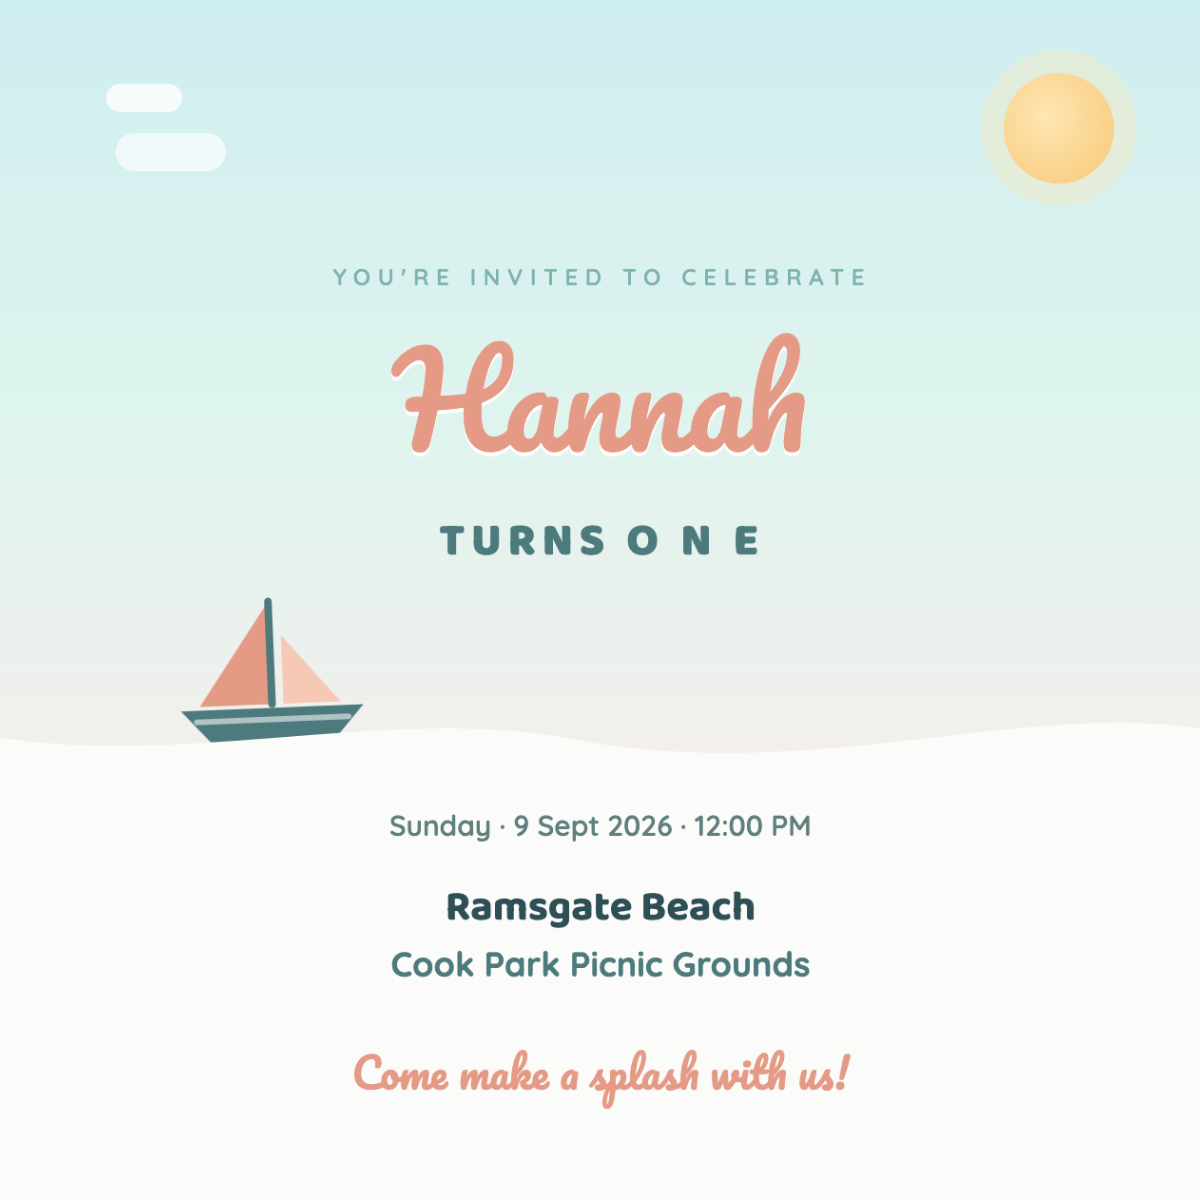
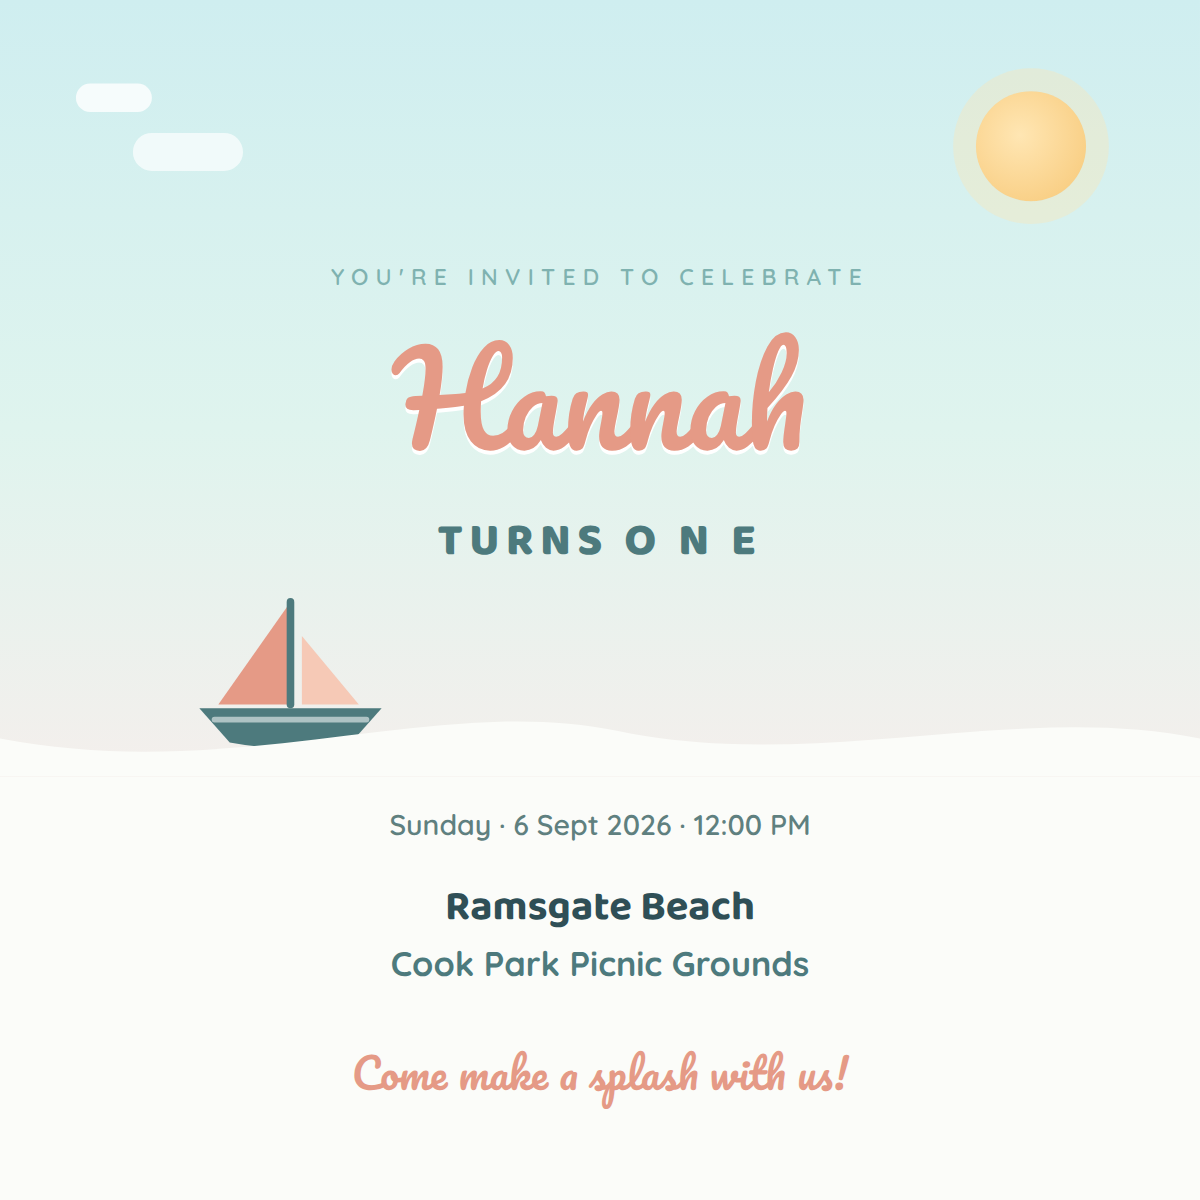
Correct the party date to Sunday 6 Sept 2026
The card read "Sunday · 9 Sept 2026", but 9 Sept 2026 falls on a
Wednesday — the weekday and the date disagreed. The 6th is the
intended date and is a Sunday.

Updated the visible date line, the title, both description meta
tags and the README, and re-rendered all three card PNGs so the
social preview no longer shows the wrong date in link unfurls.

diff --git a/index.html b/index.html
@@ -3,11 +3,11 @@
 <head>
 <meta charset="utf-8">
 <meta name="viewport" content="width=device-width, initial-scale=1">
-<title>Hannah turns ONE · 9 Sept 2026 · Ramsgate Beach</title>
-<meta name="description" content="Sunday 9 Sept 2026, 12:00 PM · Cook Park Picnic Grounds, Ramsgate Beach. Come make a splash with us!">
+<title>Hannah turns ONE · 6 Sept 2026 · Ramsgate Beach</title>
+<meta name="description" content="Sunday 6 Sept 2026, 12:00 PM · Cook Park Picnic Grounds, Ramsgate Beach. Come make a splash with us!">
 <meta property="og:type" content="website">
 <meta property="og:title" content="Hannah turns ONE">
-<meta property="og:description" content="Sunday 9 Sept 2026, 12:00 PM · Cook Park Picnic Grounds, Ramsgate Beach. Come make a splash with us!">
+<meta property="og:description" content="Sunday 6 Sept 2026, 12:00 PM · Cook Park Picnic Grounds, Ramsgate Beach. Come make a splash with us!">
 <meta property="og:image" content="https://yen223.github.io/hannah-invitation/og-preview-square.png">
 <meta property="og:image:width" content="1200">
 <meta property="og:image:height" content="1200">
@@ -74,7 +74,7 @@
         <!-- address (above the fold) -->
         <div style="padding:8px 4px 0;">
 
-          <div style="font-family:'Quicksand',sans-serif; font-weight:600; font-size:15px; color:#5f807f; margin-top:8px;">Sunday · 9 Sept 2026 · 12:00 PM</div>
+          <div style="font-family:'Quicksand',sans-serif; font-weight:600; font-size:15px; color:#5f807f; margin-top:8px;">Sunday · 6 Sept 2026 · 12:00 PM</div>
           <div style="font-family:'Baloo 2',cursive; font-weight:700; font-size:22px; color:#2f4f56; margin-top:16px;">Ramsgate Beach</div>
           <div style="font-family:'Quicksand',sans-serif; font-weight:700; font-size:18px; color:#4d7a7d; margin-top:0;">Cook Park Picnic Grounds</div>
         </div>

diff --git a/README.md b/README.md
@@ -1,6 +1,6 @@
 # Hannah's 1st Birthday Invitation
 
-Static invitation page — **Sunday 9 Sept 2026, 12:00 PM · Cook Park Picnic Grounds, Ramsgate Beach.**
+Static invitation page — **Sunday 6 Sept 2026, 12:00 PM · Cook Park Picnic Grounds, Ramsgate Beach.**
 
 Live: https://yen223.github.io/hannah-invitation/
 
@@ -24,7 +24,7 @@ Open `index.html` and edit directly. Things you'll likely want:
 
 | What | Where |
 | --- | --- |
-| Date / time | `Sunday · 9 Sept 2026 · 12:00 PM` |
+| Date / time | `Sunday · 6 Sept 2026 · 12:00 PM` |
 | Venue | `Ramsgate Beach` / `Cook Park Picnic Grounds` |
 | Accent colour | `#e59a86` (appears several times) |
 | Phone layout | the `@media (max-width: 560px)` block |
